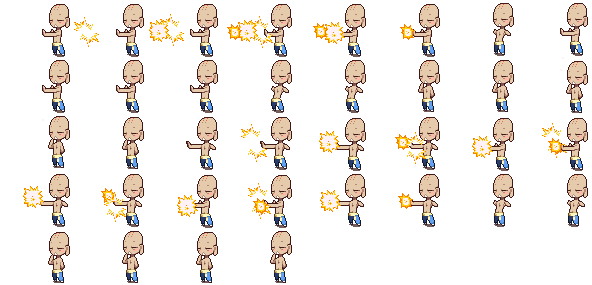
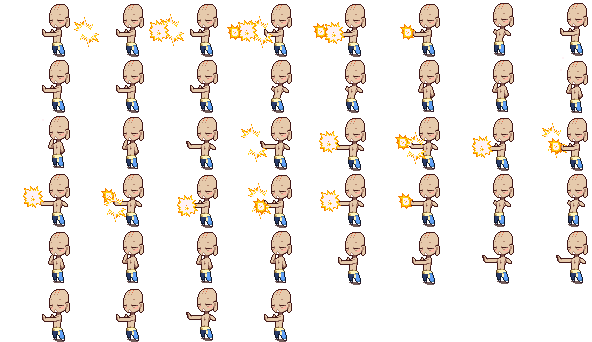
fix(client): separate reactions and combat effects for all active monsters

diff --git a/tools/import_assets.py b/tools/import_assets.py
@@ -113,6 +113,19 @@ def bake(key, animation, output_key=None, write_texture=True, texture_dir=None,
     bounds = [0, 0, 1, 1]
     composites = list(animation['frames'])
     derived_frames = []
+    runtime_monster = key in MONSTER_PLAYBACK and output_key is None
+    monster_playback = ({mode: list(animation['sequences'][index])
+                         for mode, index in MONSTER_PLAYBACK[key].items()}
+                        if runtime_monster else {})
+
+    def derive(source_frame, excluded_sources):
+        index = len(composites)
+        derived_frames.append({'frame': index, 'source_frame': source_frame,
+                               'excluded_sources': sorted(excluded_sources)})
+        composites.append([layer for layer in animation['frames'][source_frame]
+                           if layer['source'] not in excluded_sources])
+        return index
+
     if key == 'monster/langw' and output_key is None:
         # The original attack reuses impact-bearing poses. Retain those poses
         # for hurt/source_N; gameplay attack uses copies without the tx38 star.
@@ -120,9 +133,34 @@ def bake(key, animation, output_key=None, write_texture=True, texture_dir=None,
             layers = animation['frames'][source_frame]
             if not any(layer['source'] == 'tx38' for layer in layers):
                 raise ValueError('Wolf impact layer no longer matches audited frames')
-            derived_frames.append({'frame': len(composites), 'source_frame': source_frame,
-                                   'excluded_sources': ['tx38']})
-            composites.append([layer for layer in layers if layer['source'] != 'tx38'])
+            derive(source_frame, {'tx38'})
+        replacements = {row['source_frame']: row['frame'] for row in derived_frames}
+        monster_playback['attack'] = [[replacements.get(index, index), duration]
+                                      for index, duration in monster_playback['attack']]
+        monster_playback['hurt'] = [[6, 1], [7, 1], [8, 1]]
+    if runtime_monster:
+        # A loop must not continuously emit attack/impact effects. Keep the
+        # complete source composites and outgoing attack effects untouched.
+        clean_frames = {}
+        for mode in ('idle', 'walk'):
+            clean = []
+            for index, duration in monster_playback[mode]:
+                excluded = {layer['source'] for layer in animation['frames'][index]
+                            if layer['source'].startswith('tx')}
+                if excluded:
+                    if index not in clean_frames:
+                        clean_frames[index] = derive(index, excluded)
+                    index = clean_frames[index]
+                clean.append([index, duration])
+            monster_playback[mode] = clean
+        if 'hurt' not in monster_playback:
+            # No native hurt sequence has been verified for these actors.
+            # Hold a separate neutral pose while the battle impact plays,
+            # rather than playing their outgoing attack on incoming damage.
+            source_frame = animation['sequences'][MONSTER_PLAYBACK[key]['idle']][0][0]
+            excluded = {layer['source'] for layer in animation['frames'][source_frame]
+                        if layer['source'].startswith('tx')}
+            monster_playback['hurt'] = [[derive(source_frame, excluded), 3]]
     for layers in composites:
         images = []
         head_center = None
@@ -187,12 +225,7 @@ def bake(key, animation, output_key=None, write_texture=True, texture_dir=None,
             playback['attack'] = sequences[4]
             playback['cast'] = sequences[6]  # Original floating-staff flourish.
     elif key in MONSTER_PLAYBACK and output_key is None:
-        playback = {mode: sequences[index] for mode, index in MONSTER_PLAYBACK[key].items()}
-        if derived_frames:
-            replacements = {row['source_frame']: row['frame'] for row in derived_frames}
-            playback['attack'] = [[replacements.get(index, index), duration]
-                                  for index, duration in playback['attack']]
-            playback['hurt'] = [[6, 1], [7, 1], [8, 1]]
+        playback = monster_playback
     result = {'texture': texture_prefix + filename, 'width': width,
             'height': height, 'columns': columns, 'origin': [left, top],
             'anchor_x': 0, 'playback': playback,

diff --git a/tests/test_monster_motion.py b/tests/test_monster_motion.py
@@ -28,7 +28,7 @@ class MonsterMotionTests(unittest.TestCase):
             derived = {row['frame']: row['source_frame'] for row in info.get('derived_frames', [])}
             masks = [[(x, y) for y in range(body.height) for x in range(body.width) if template.getpixel((x, y))[3]]
                      for template in (body, reverse)]
-            for mode in ('idle', 'walk', 'attack'):
+            for mode in ('idle', 'walk', 'attack', 'hurt'):
                 for index, _ in info['playback'][mode]:
                     with self.subTest(monster=name, mode=mode, frame=index):
                         layer = next(layer for layer in animation['frames'][derived.get(index, index)]
@@ -92,6 +92,31 @@ class MonsterMotionTests(unittest.TestCase):
                         frame for frame, _ in info['playback']['hurt']))
         self.assertTrue(all(impact_pixels(frame) == 0 for frame, _ in info['playback']['attack']))
         self.assertTrue(all(impact_pixels(frame) >= 40 for frame, _ in info['playback']['hurt']))
+
+    def test_all_runtime_monsters_separate_hurt_and_keep_combat_effects_out_of_loops(self):
+        for key in art.MONSTER_PLAYBACK:
+            animation = art.parse_ani(ROOT / 'analysis/unpacked/ssjx' / (key + '.ani'))
+            info = json.loads((ROOT / 'client/assets/data/actors' / (key + '.json')).read_text('utf-8'))
+            derived = {row['frame']: row for row in info['derived_frames']}
+            with self.subTest(monster=key):
+                attack = {index for index, _ in info['playback']['attack']}
+                hurt = {index for index, _ in info['playback']['hurt']}
+                self.assertTrue(attack.isdisjoint(hurt))
+                for mode in ('idle', 'walk'):
+                    for index, _ in info['playback'][mode]:
+                        row = derived.get(index, {'source_frame': index, 'excluded_sources': []})
+                        effects = {layer['source'] for layer in animation['frames'][row['source_frame']]
+                                   if layer['source'].startswith('tx')}
+                        self.assertTrue(effects.issubset(row['excluded_sources']), (key, mode, index))
+                if key != 'monster/langw':
+                    # Outgoing slash/projectile effects are not incoming damage.
+                    self.assertEqual(info['playback']['attack'],
+                                     [list(step) for step in animation['sequences'][art.MONSTER_PLAYBACK[key]['attack']]])
+                    for frame in hurt:
+                        row = derived[frame]
+                        self.assertTrue(all(not layer['source'].startswith('tx')
+                                            or layer['source'] in row['excluded_sources']
+                                            for layer in animation['frames'][row['source_frame']]))
 
 
 if __name__ == '__main__':
